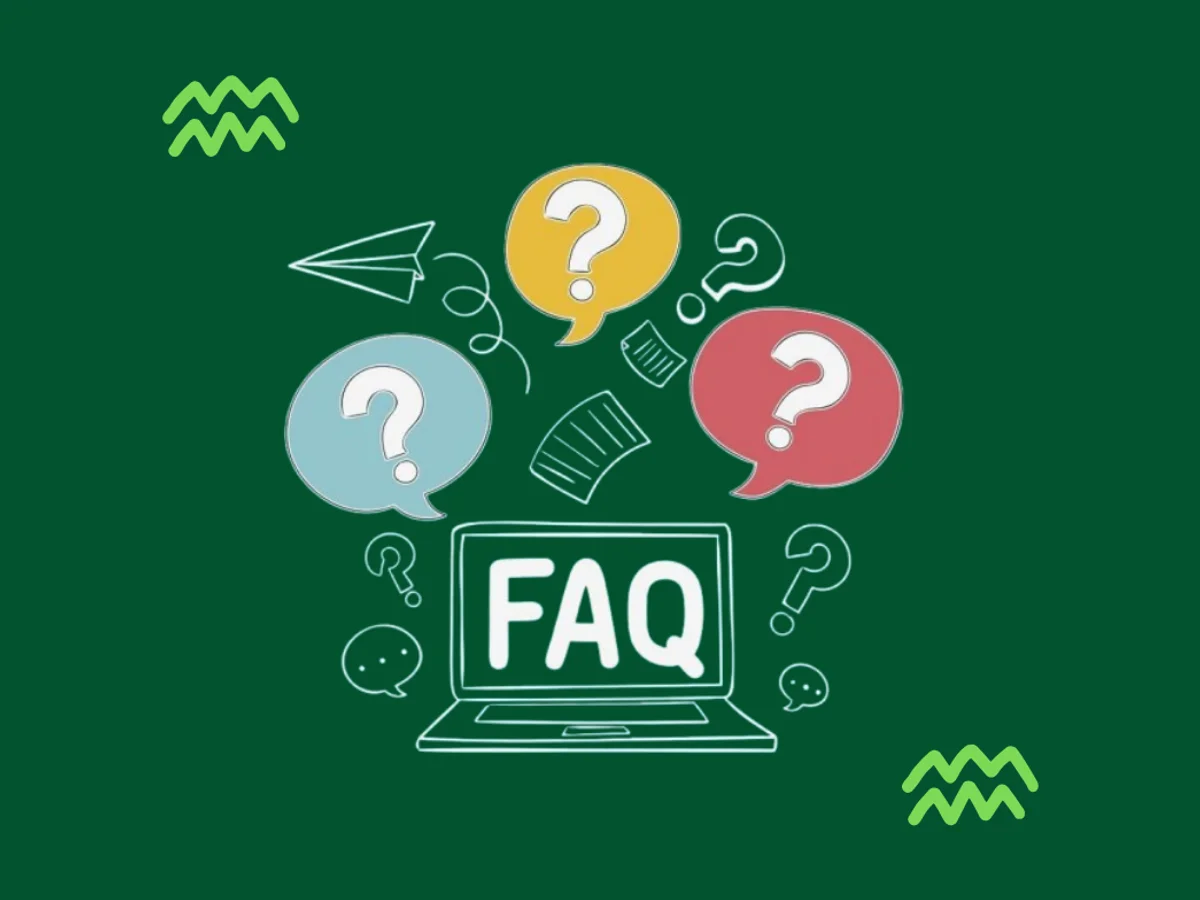
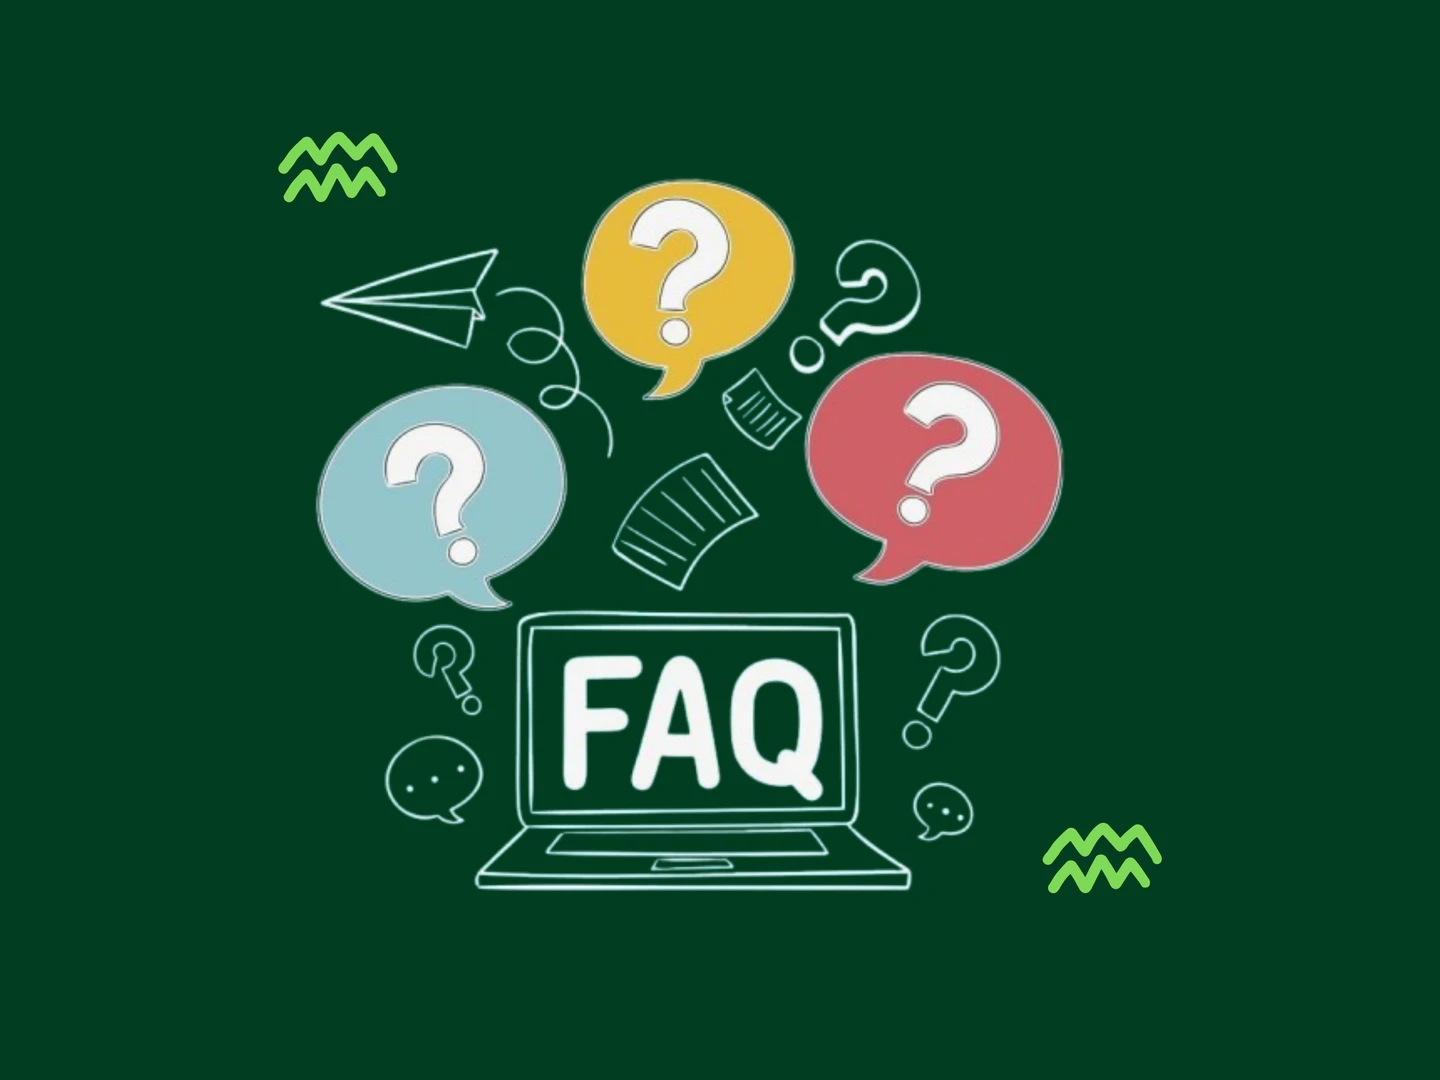
Refresh section artwork and drop the footer wordmark
Swap in the supplied illustrations across four sections, each cropped to
its slot's aspect ratio at the source so `object-contain`/`object-cover`
has nothing to letterbox or trim:

- Core services: the seven `personalized_learning` files, matched to
  their rows by name tag, at 600x400 for the 240x160 hover slot. These
  are local now rather than Supabase-hosted, like the other recent art.
- Program cards 1 and 2: new squiggle backdrops, lossless WebP since the
  flat fields ring under lossy encoding (and compress smaller anyway).
- FAQ: new artwork, cropped 16:9 -> 4:3 centred on the illustration's
  bounding box. Its field is exactly `--color-brand`, so the card's
  backdrop moves from `#02532f` to `bg-brand` and no longer shows a
  lighter green while the image loads.
- Stage photos: replacement K12 and postgraduate images, alt text
  updated to match what they actually show.

Testimonial captions now carry the country flag from the `regions` list
instead of the country name, keeping the name as screen-reader text
because flag emoji are announced inconsistently.

Changed region(s): [[0.2158, 0.1556, 0.7708, 0.84], [0.7092, 0.7467, 0.8633, 0.9333], [0.1233, 0.0622, 0.2775, 0.1867]]

diff --git a/src/components/home/CoreServices.tsx b/src/components/home/CoreServices.tsx
@@ -1,43 +1,42 @@
 import Image from "next/image";
 import { Container } from "@/components/ui/Container";
 import { SectionHeading } from "@/components/ui/SectionHeading";
-import { img } from "@/lib/images";
 
 const items = [
   {
     title: "Personalized Tutoring",
     desc: "One-on-one and small-group learning designed around each student's pace, goals, strengths, and challenges.",
-    image: img("core-tutoring.webp"),
+    image: "/personalized_learning/personalized-tutoring.webp",
   },
   {
     title: "Exam Preparation",
     desc: "Structured coaching and strategic preparation for national, international, professional, and university entrance examinations.",
-    image: img("core-exam.webp"),
+    image: "/personalized_learning/exam-preparation.webp",
   },
   {
     title: "Academic Support",
     desc: "Comprehensive support systems that help students stay academically strong through study coaching, revision, instruction, and assignment support.",
-    image: img("core-academic.webp"),
+    image: "/personalized_learning/academic-support.webp",
   },
   {
     title: "Skill Development",
     desc: "Future-focused learning experiences in technology, digital skills, creative disciplines, communication, and other high-value competencies.",
-    image: img("core-skill.webp"),
+    image: "/personalized_learning/skill-development.webp",
   },
   {
     title: "Career Development",
     desc: "Practical learning and coaching programs that help students, graduates, and professionals prepare for certifications and career growth.",
-    image: img("core-career.webp"),
+    image: "/personalized_learning/career-development.webp",
   },
   {
     title: "Research Support",
     desc: "Guided support for academic research, essays, projects, reports, and data analysis.",
-    image: img("core-research.webp"),
+    image: "/personalized_learning/research-support.webp",
   },
   {
     title: "Academic Consulting",
     desc: "Advisor services for parents, educators, and institutions seeking stronger learning systems, academic planning, and student development.",
-    image: img("core-consulting.webp"),
+    image: "/personalized_learning/academic-consulting.webp",
   },
 ];
 

diff --git a/src/components/home/Testimonials.tsx b/src/components/home/Testimonials.tsx
@@ -1,6 +1,7 @@
 import Image from "next/image";
 import { Container } from "@/components/ui/Container";
 import { SectionHeading } from "@/components/ui/SectionHeading";
+import { regions } from "@/lib/site";
 
 // One shared backdrop so every card reads identically. The artwork is a dark
 // green field, so the copy stays white throughout.
@@ -44,6 +45,11 @@ const testimonials = [
     country: "United Kingdom",
   },
 ];
+
+/** The navbar's region list is the source of truth for flags. */
+function flagFor(country: string) {
+  return regions.find((r) => r.name === country)?.flag;
+}
 
 function initials(name: string) {
   return name
@@ -94,8 +100,11 @@ export function Testimonials() {
                 </span>
                 <span>
                   <span className="block text-[13px] font-semibold sm:text-sm">{t.name}</span>
-                  <span className="block text-[11px] text-white/70 sm:text-xs">
-                    {t.country}
+                  {/* The flag stands in for the country name; the name is kept
+                      for screen readers, which read flag emoji inconsistently. */}
+                  <span className="block text-base leading-none sm:text-lg">
+                    <span aria-hidden>{flagFor(t.country) ?? t.country}</span>
+                    <span className="sr-only">{t.country}</span>
                   </span>
                 </span>
               </figcaption>

diff --git a/src/components/home/LearningSupport.tsx b/src/components/home/LearningSupport.tsx
@@ -11,7 +11,7 @@ const stages = [
   {
     title: "K12 Students",
     image: "/student_success_matters/k-12.webp",
-    alt: "A teacher helping a young pupil with classwork at her desk",
+    alt: "Two students studying together over a notebook",
     desc: "We support parents and guardians by providing structured tutoring and academic guidance for their kids in K12.",
     bullets: [
       "School-complementing lessons",
@@ -24,7 +24,7 @@ const stages = [
   {
     title: "College Students & Postgraduate Students",
     image: "/student_success_matters/college-postgraduate.webp",
-    alt: "A postgraduate student talking with an advisor over a laptop",
+    alt: "A postgraduate student working at a laptop while a mentor looks on",
     desc: "Crucial learning support designed for college students, early graduates and postgraduate students, designed to prepare for the toughest phase of the learning journey.",
     bullets: [],
   },

diff --git a/src/components/sections/ComprehensiveServices.tsx b/src/components/sections/ComprehensiveServices.tsx
@@ -11,7 +11,7 @@ const services = [
     name: "Delphi Prep",
     href: "/prep",
     image: "/personalized_tutoring/delphi-prep.webp",
-    bg: "/our_service_section/our_service_section1.jpg",
+    bg: "/our_service_section/our_service_section1.webp",
     dark: false,
     desc: "Focused preparation for major exams, admissions tests, certifications, and academic assessments across American, British, Canadian, Nigerian and international curricula.",
   },
@@ -19,7 +19,7 @@ const services = [
     name: "Delphi Academics",
     href: "/academics",
     image: "/personalized_tutoring/delphi-academics.webp",
-    bg: "/our_service_section/our_service_section2.jpg",
+    bg: "/our_service_section/our_service_section2.webp",
     dark: false,
     desc: "Comprehensive academic support for students through tutoring, homework guidance, research support, enrichment, and learning coaching.",
   },

diff --git a/src/components/sections/Faq.tsx b/src/components/sections/Faq.tsx
@@ -56,7 +56,7 @@ export function Faq({
           )}
         >
           {showImage && (
-            <div className="relative aspect-[4/3] overflow-hidden rounded-3xl bg-[#02532f]">
+            <div className="relative aspect-[4/3] overflow-hidden rounded-3xl bg-brand">
               <Image
                 src="/FAQ_section/faq.webp"
                 // Decorative: the section heading already says what this is.

diff --git a/src/components/Footer.tsx b/src/components/Footer.tsx
@@ -99,13 +99,6 @@ export function Footer() {
           All rights reserved.
         </div>
       </div>
-
-      <div
-        aria-hidden
-        className="select-none overflow-hidden text-center font-display text-[12vw] font-extrabold leading-none tracking-tight text-primary-150"
-      >
-        DELPHI EDUCATION HUB
-      </div>
     </footer>
   );
 }
